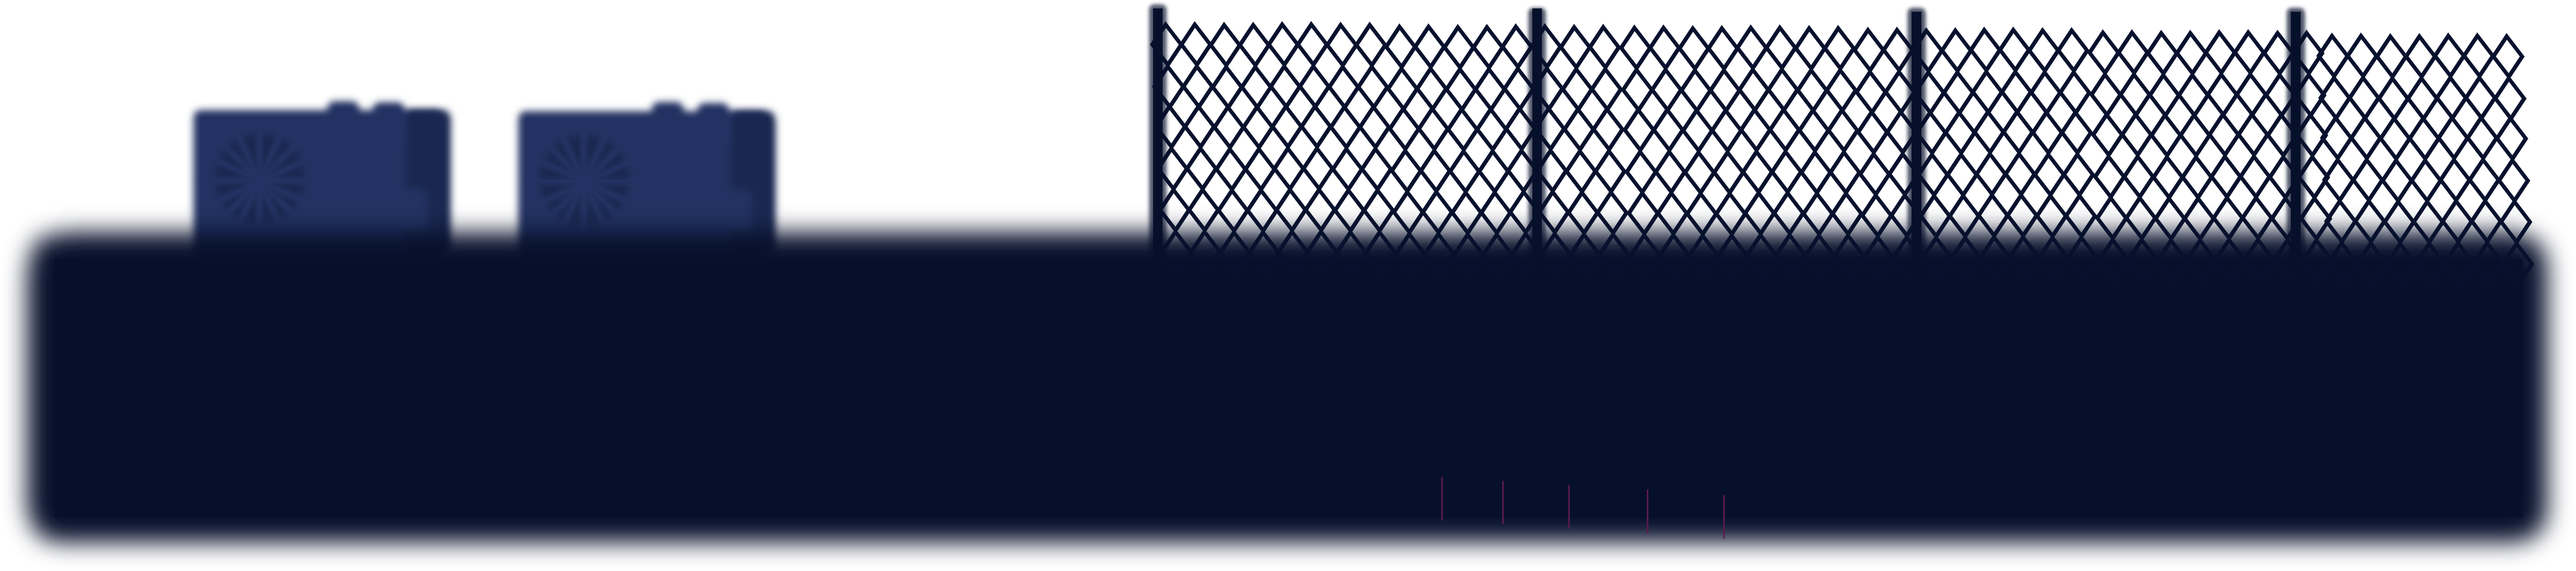
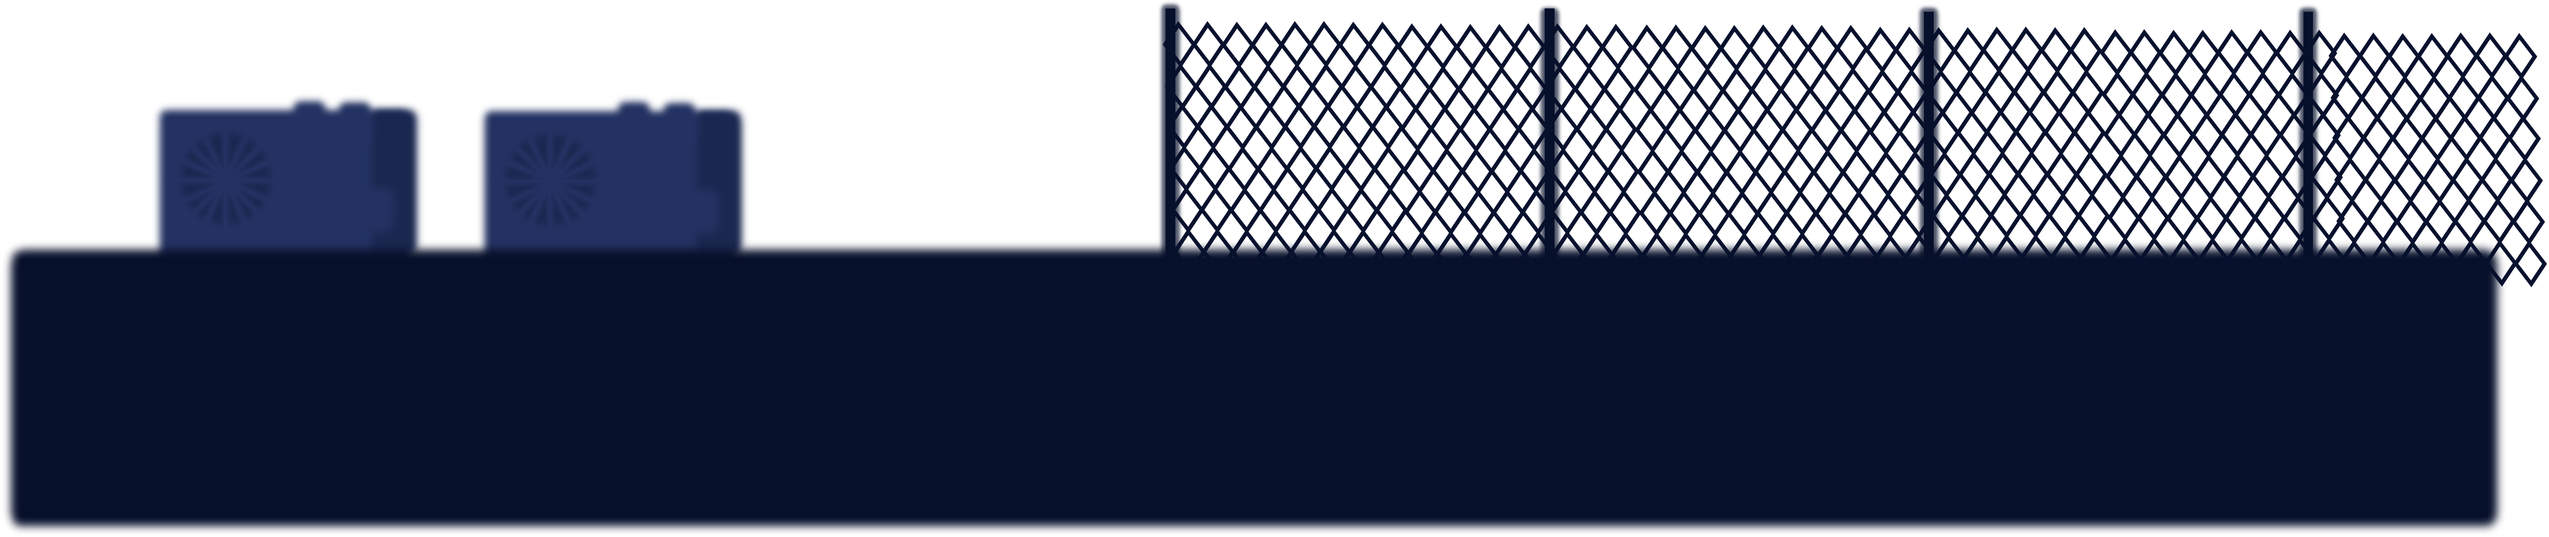
update 2

Changed region(s): [[0.0, 0.0, 1.0, 1.0]]

diff --git a/index.html b/index.html
@@ -526,7 +526,7 @@
 
 
 
-            <div class="absolute w-screen lg:left-1/2 -translate-x-1/2 bottom-100 lg:-bottom-150 z-70 ">
+            <div class="absolute w-screen lg:left-1/2 -translate-x-1/2 bottom-100 lg:-bottom-160 z-70 ">
                 <img src="Rooftop.png" class="w-[50vw] lg:w-[105vw] max-w-none h-auto object-cover block scale-105"/>
             </div>
 
@@ -543,8 +543,6 @@
                 </span>
             </div>
 
-            <div id="background2-adjust-mobile" class="absolute lg:relative w-screen h-full bg-[url('dark-living-room.jpg.jpeg')] -left-20 lg:-left-0 bg-cover bg-center bg-no-repeat">
-            </div>
         </div>
 
 
